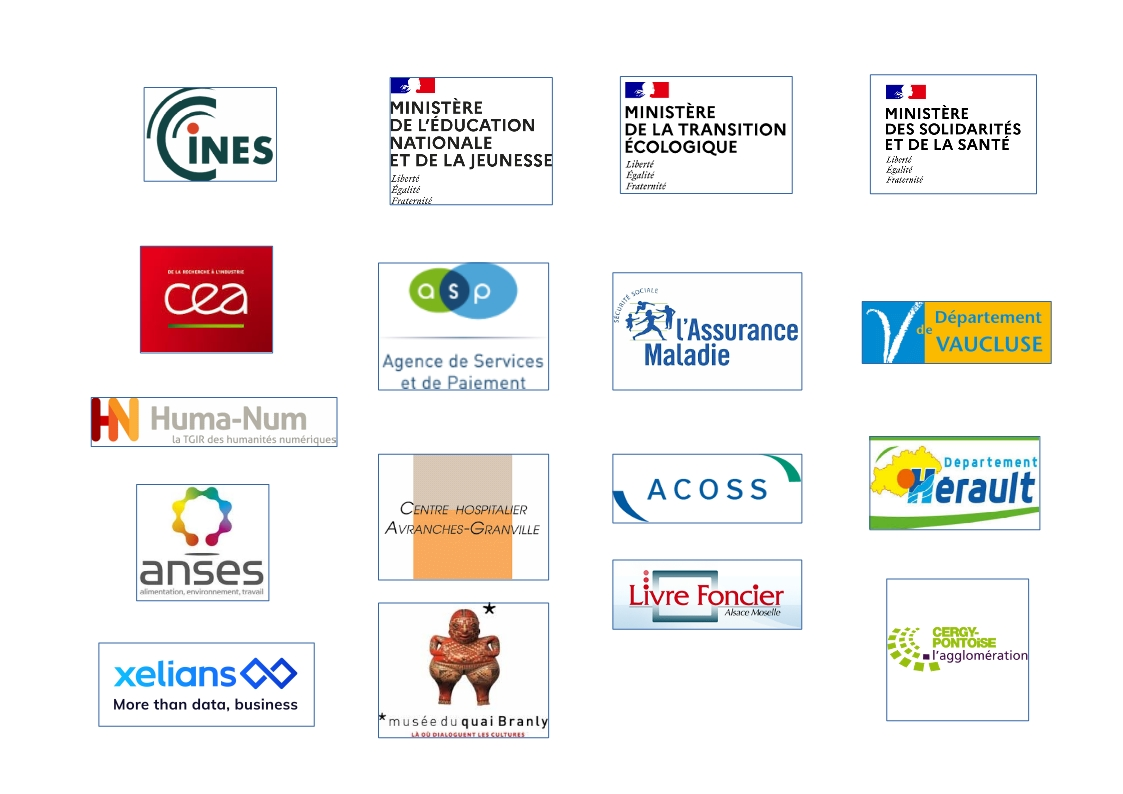
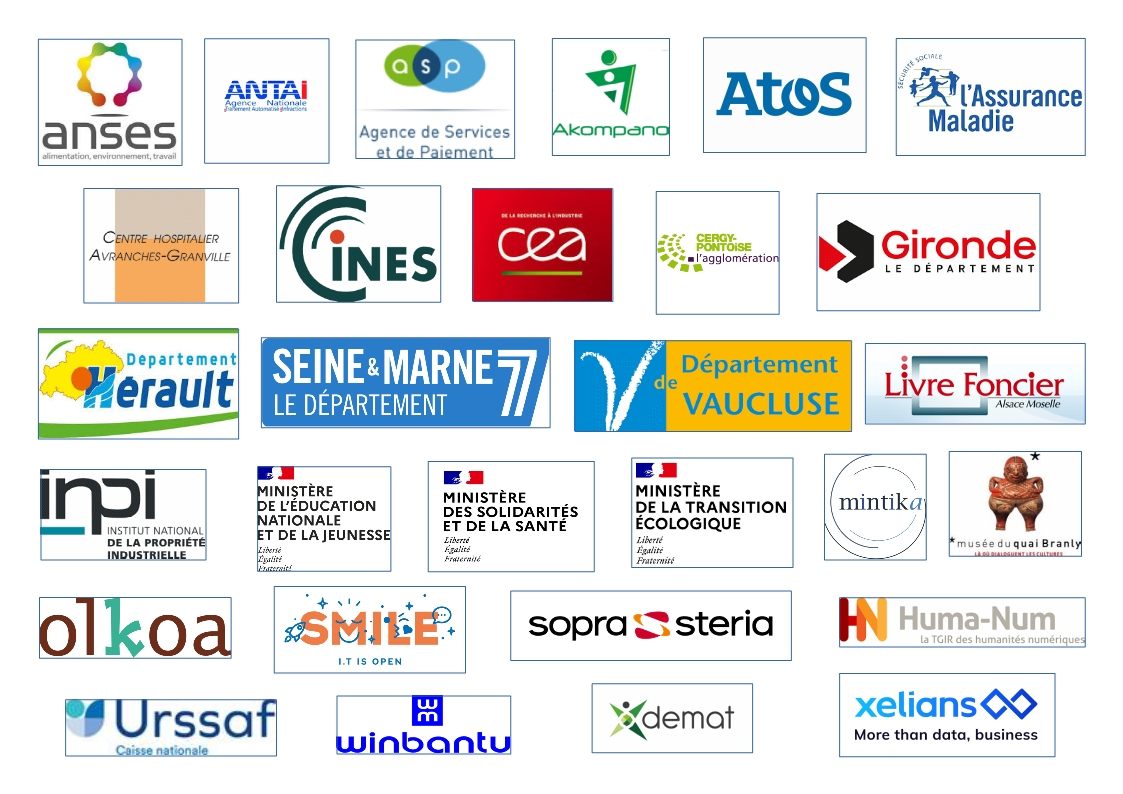
update_pres

diff --git a/pages/presentation/pres_acteurs.md b/pages/presentation/pres_acteurs.md
@@ -7,7 +7,7 @@ fatherref: programme
 ## Pilotes 
 
 * Comité Interministériel aux Archives de France (CIAF),
-* Direction Interministérielle du Numérique (DINUM).
+* Direction Interministérielle du Numérique (DINum).
 
 ## Porteurs
 
@@ -19,21 +19,36 @@ fatherref: programme
 
 ## Partenaires
 
-* Agence centrale des organismes de sécurité sociale (ACOSS),
-* Agence nationale de sécurité sanitaire de l’alimentation, de l’environnement et du travail (ANSES),
-* Agence de Services et de Paiement (ASP),
-* Caisse nationale de l'Assurance Maladie (CNAM),
-* Centre Hospitalier d'Avranches-Granville, 
-* Centre Informatique National de l'Enseignement Supérieur (CINES),
-* Commissariat à l'énergie atomique et aux énergies alternatives (CEA),
-* Conseil Départemental de l'Hérault,
-* Conseil Départemental de Vaucluse
-* Etablissement Public d'Exploitation du Livre Foncier Informatisé (EPELFI),
-* Ministère de l’Éducation nationale et de la Jeunesse,
-* Ministère de la Transition écologique et solidaire,
-* Ministère des Solidarités et de la Santé,
-* Musée du quai Branly - Jacques-Chirac,
-* TGIR Huma-Num,
+
+* Agence nationale de sécurité sanitaire de l’alimentation, de l’environnement et du travail (ANSES)
+* Agence nationale de traitement automatisé des infractions (ANTAI)
+* Agence de Services et de Paiement (ASP)
+* Akompano
+* Atos
+* Caisse nationale de l'Assurance Maladie (CNAM)
+* Centre Hospitalier d'Avranches-Granville
+* Centre Informatique National de l'Enseignement Supérieur (CINES)
+* Commissariat à l'énergie atomique et aux énergies alternatives (CEA)
+* Communauté d'agglomération de Cergy-Pontoise
+* Conseil départemental de la Gironde
+* Conseil département de l'Hérault
+* Conseil département de Seine-et-Marne
+* Conseil départemental de Vaucluse
+* Etablissement Public d'Exploitation du Livre Foncier Informatisé (EPELFI)
+* Institut national de la propriété industrielle (INPI)
+* Ministère de l’Éducation nationale et de la Jeunesse
+* Ministère de la Transition écologique et solidaire
+* Ministère des Solidarités et de la Santé
+* Mintika
+* Musée du quai Branly - Jacques-Chirac
+* Olkoa
+* Smile
+* SopraSteria
+* TGIR Huma-Num
+* Urssaf - Caisse nationale (ex-ACOSS)
+* Winbantu
+* XDemat
+* Xelians
 
 
 
